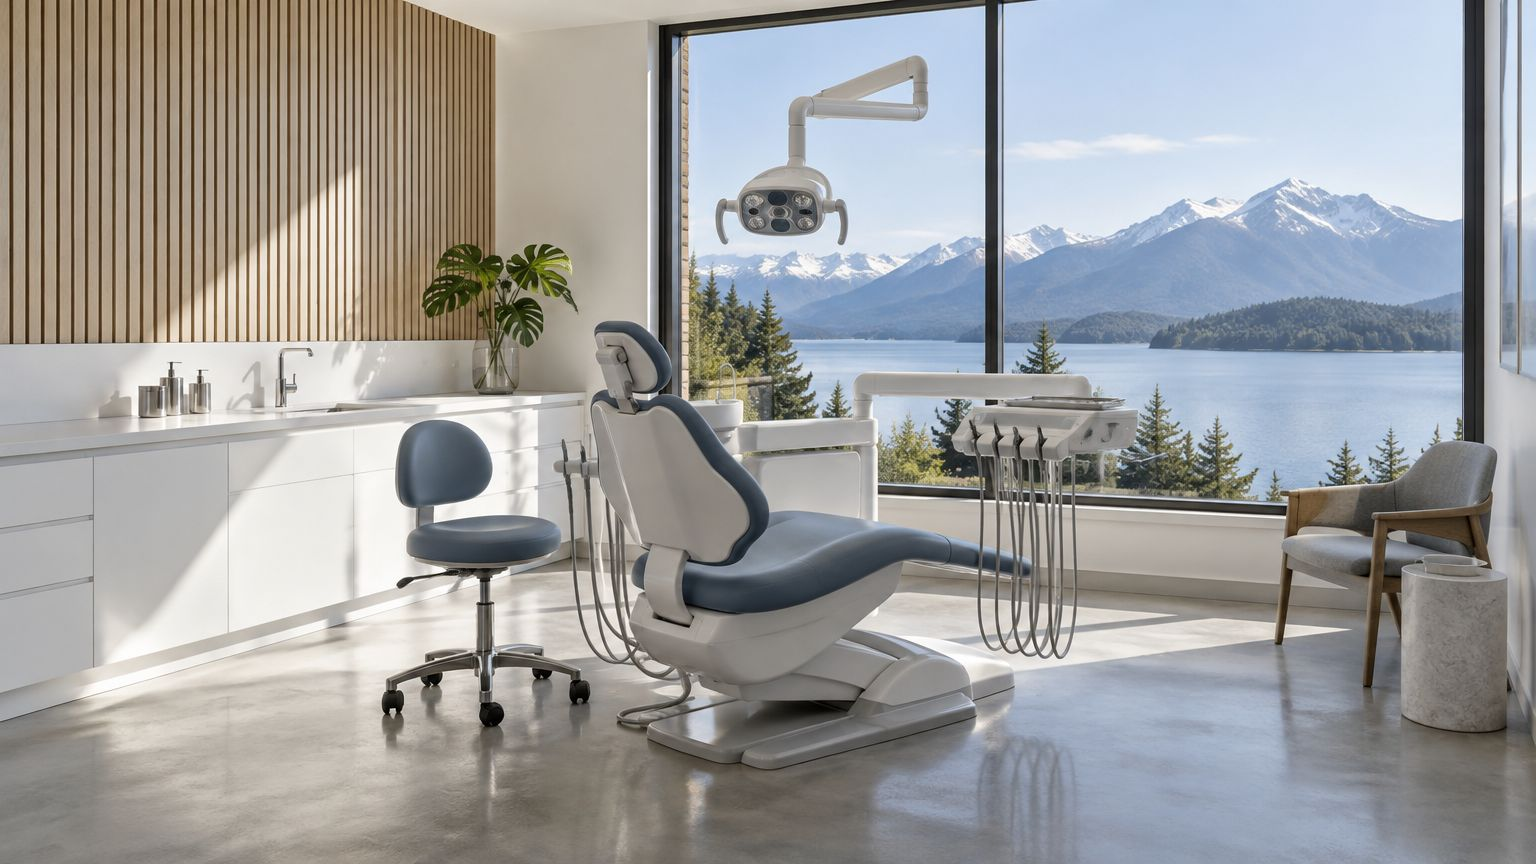
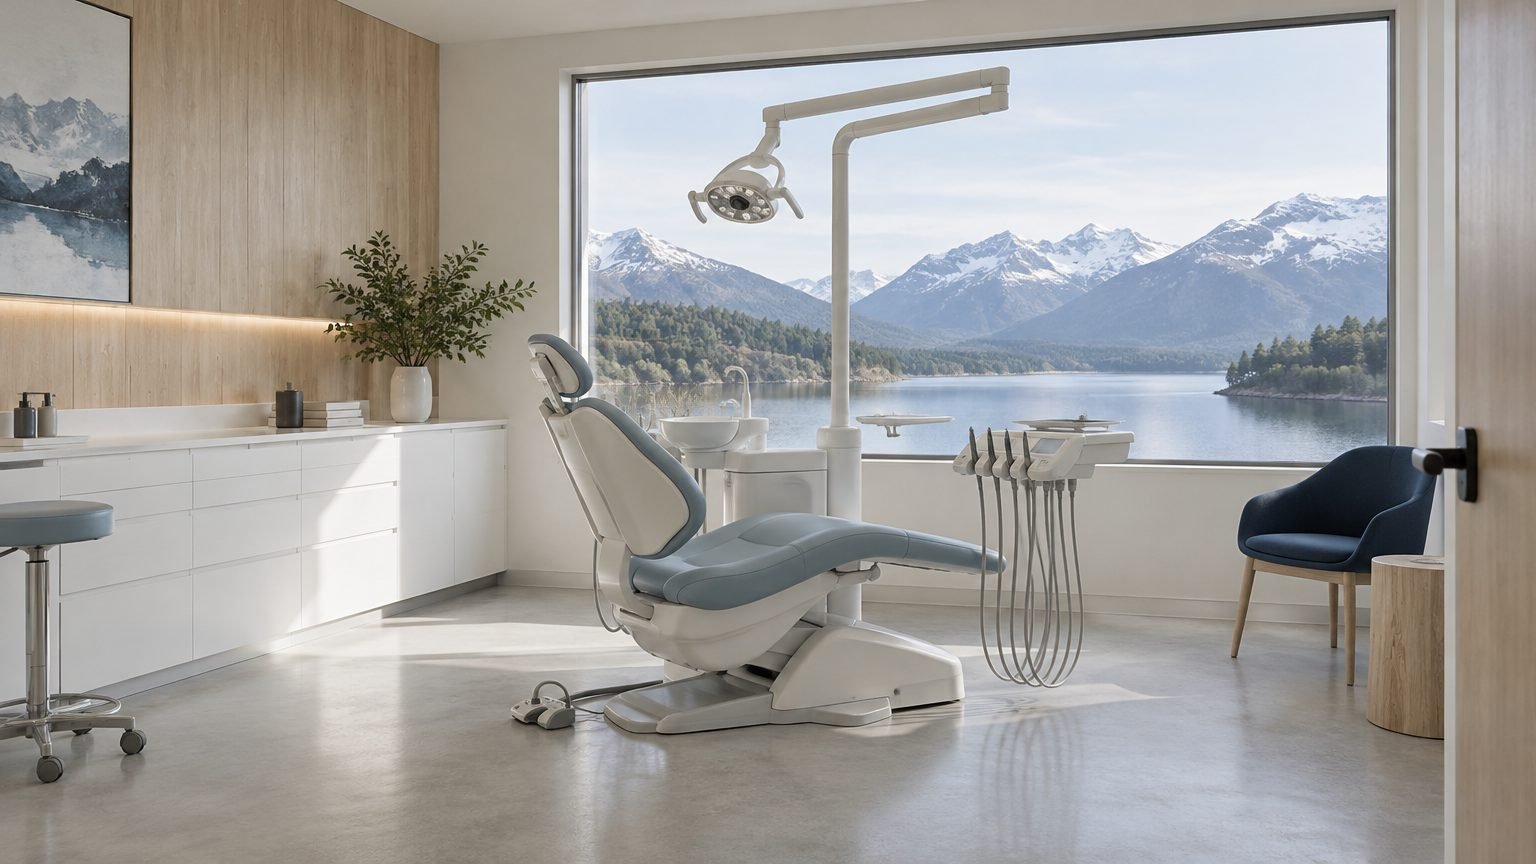
Portada más simple y nuevas imágenes sin errores
Reemplaza las dos imágenes con la lámpara saliendo de la ventana, saca la
frase y la foto repetida del lago, achica la ficha de Natalia en Equipo y
ajusta el ritmo de las secciones.

Claude-Session: https://claude.ai/code/session_01JumFwoXQsERbmUMm6X5iSC

diff --git a/index.html b/index.html
@@ -30,7 +30,6 @@
       <a href="#tratamientos">Tratamientos</a>
       <a href="#natalia">Dra. Cárdenas</a>
       <a href="#equipo">Equipo</a>
-      <a href="#consultorio">El consultorio</a>
       <a href="#ubicacion">Ubicación</a>
       <a href="#profesionales">Para profesionales</a>
     </nav>
@@ -46,7 +45,6 @@
     <a href="#tratamientos">Tratamientos</a>
     <a href="#natalia">Dra. Cárdenas</a>
     <a href="#equipo">Equipo</a>
-    <a href="#consultorio">El consultorio</a>
     <a href="#ubicacion">Ubicación</a>
     <a href="#profesionales">Para profesionales</a>
   </nav>
@@ -144,14 +142,6 @@
     </div>
   </section>
 
-  <!-- Frase -->
-  <section class="section tight">
-    <div class="wrap quote reveal">
-      <span class="eyebrow">Nuestro criterio</span>
-      <p>Una sonrisa sana empieza con <em>un buen diagnóstico</em></p>
-    </div>
-  </section>
-
   <!-- Equipo -->
   <section class="section soft" id="equipo">
     <div class="wrap">
@@ -165,9 +155,7 @@
           <div class="body">
             <span class="role">Ortodoncia &amp; Estética Facial</span>
             <h3>Dra. Natalia Cárdenas</h3>
-            <p>Odontóloga especializada en ortodoncia y ortopedia, con foco en estética facial. Diez años de ejercicio profesional y trato directo con cada paciente.</p>
-            <div class="chips"><span class="chip">Ortodoncia</span><span class="chip">Alineadores</span><span class="chip">Ortopedia</span><span class="chip">Estética</span></div>
-            <p class="muted" style="font-size:.85rem">Matrícula <span class="ph">[M.P. N.º]</span></p>
+            <p>Directora del consultorio. Ortodoncia, alineadores invisibles, ortopedia maxilar y estética facial.</p>
             <div class="actions">
               <a class="btn sm" href="turnos/">Sacar turno con Natalia</a>
               <a class="link-arrow" href="nati/">Conocer su trabajo <svg width="14" height="14" viewBox="0 0 20 20" fill="none" stroke="currentColor" stroke-width="1.6" aria-hidden="true"><path d="M4 10h12m-5-5 5 5-5 5"/></svg></a>
@@ -176,10 +164,10 @@
         </article>
         <article class="member join reveal d1">
           <div class="body" style="align-content:center;height:100%">
-            <span class="role">Próximamente</span>
-            <h3>Más especialistas</h3>
+            <span class="role">Para profesionales</span>
+            <h3>Sumate al equipo</h3>
             <p>Cada profesional que atiende en el consultorio aparece acá con su ficha y su agenda online, para que reserves directo con quien te atiende.</p>
-            <div class="actions"><a class="link-arrow" href="profesionales/">¿Sos odontólogo? Atendé acá <svg width="14" height="14" viewBox="0 0 20 20" fill="none" stroke="currentColor" stroke-width="1.6" aria-hidden="true"><path d="M4 10h12m-5-5 5 5-5 5"/></svg></a></div>
+            <div class="actions"><a class="link-arrow" href="#profesionales">Reservá tu consultorio <svg width="14" height="14" viewBox="0 0 20 20" fill="none" stroke="currentColor" stroke-width="1.6" aria-hidden="true"><path d="M4 10h12m-5-5 5 5-5 5"/></svg></a></div>
           </div>
         </article>
       </div>
@@ -200,7 +188,6 @@
         <figure><img src="img/box-lago.jpg" alt="Box de atención con sillón odontológico y ventanal" width="1536" height="864" loading="lazy"><figcaption>Box de atención</figcaption></figure>
         <figure><img src="img/recepcion-800.jpg" alt="Recepción y sala de espera con sillones grises y madera clara" width="800" height="1067" loading="lazy"><figcaption>Sala de espera</figcaption></figure>
         <figure><img src="img/esterilizacion-800.jpg" alt="Área de esterilización con autoclave y material en bolsas selladas" width="800" height="1067" loading="lazy"><figcaption>Esterilización</figcaption></figure>
-        <figure style="grid-column: span 2"><img src="img/nahuel-huapi-800.jpg" alt="Lago Nahuel Huapi con montañas nevadas" width="800" height="450" loading="lazy"><figcaption>Dina Huapi</figcaption></figure>
       </div>
       <div class="split" style="margin-top:clamp(3rem,6vw,5rem)">
         <div class="copy reveal">
@@ -266,7 +253,6 @@
       <div class="rent-top">
         <div class="rent-media reveal">
           <img src="img/profesional-800.jpg" alt="Odontólogo preparando su box antes de atender" width="800" height="533" loading="lazy">
-          <div class="rent-badge"><strong>Box equipado</strong><span>Esterilización, limpieza y agenda online incluidas</span></div>
         </div>
         <div class="rent-copy">
           <span class="eyebrow reveal">Para profesionales de la salud</span>
@@ -314,7 +300,7 @@
   <div class="wrap cols">
     <div>
       <a class="brand" href="./" aria-label="Consultorios Dina Huapi"><svg class="iso" viewBox="8 8 94 64" aria-hidden="true"><circle class="c1" cx="40" cy="40" r="30"/><circle class="c2" cx="70" cy="40" r="30"/><path class="lens" d="M55 14.02 A30 30 0 0 1 55 65.98 A30 30 0 0 1 55 14.02 Z"/><path class="smile" d="M33 51 C 50 63, 76 58, 99 34 C 79 53, 54 58, 33 51 Z"/></svg><span class="wm"><span>CONSULTORIOS</span><span>DINA HUAPI</span></span></a>
-      <p class="claim">Odontología · Salud integral. Salud integral, siempre con vos.</p>
+      <p class="claim">Odontología en Dina Huapi. Salud integral, siempre con vos.</p>
     </div>
     <div><h4>Pacientes</h4><p><a href="turnos/">Pedir turno</a></p><p><a href="#tratamientos">Tratamientos</a></p><p><a href="#natalia">Dra. Natalia Cárdenas</a></p><p><a href="#equipo">Equipo</a></p><p><a href="#preguntas">Preguntas frecuentes</a></p></div>
     <div><h4>Profesionales</h4><p><a href="profesionales/">Alquiler de consultorio</a></p><p><a href="turnos/panel.html">Acceso a la agenda</a></p></div>

diff --git a/assets/sitio.css b/assets/sitio.css
@@ -102,7 +102,7 @@ h1 em, h2 em, .display em { font-style: normal; color: var(--petrol); }
 .drawer .foot { display: grid; gap: .6rem; }
 
 /* ── Secciones ── */
-.section { padding-block: clamp(4.5rem, 10vw, 8.5rem); }
+.section { padding-block: clamp(4rem, 8vw, 7rem); }
 .section.tight { padding-block: clamp(3.5rem, 7vw, 6rem); }
 .section.soft { background: var(--soft); }
 .section.navy { background: var(--navy); color: rgba(255,255,255,.82); }
@@ -182,7 +182,7 @@ h1 em, h2 em, .display em { font-style: normal; color: var(--petrol); }
 
 /* ── Galería ── */
 .mosaic { display: grid; gap: .75rem; grid-template-columns: 1fr 1fr; }
-@media (min-width: 860px) { .mosaic { grid-template-columns: 1.3fr 1fr 1fr; grid-template-rows: 1fr 1fr; height: 40rem; gap: 1rem; } .mosaic figure:first-child { grid-row: span 2; } }
+@media (min-width: 860px) { .mosaic { grid-template-columns: 1.6fr 1fr 1fr; height: 28rem; gap: 1rem; } }
 .mosaic figure { position: relative; margin: 0; border-radius: 20px; overflow: hidden; background: var(--soft); min-height: 12rem; }
 .mosaic figure:first-child { grid-column: span 2; aspect-ratio: 16 / 10; }
 @media (min-width: 860px) { .mosaic figure:first-child { grid-column: auto; aspect-ratio: auto; } }
